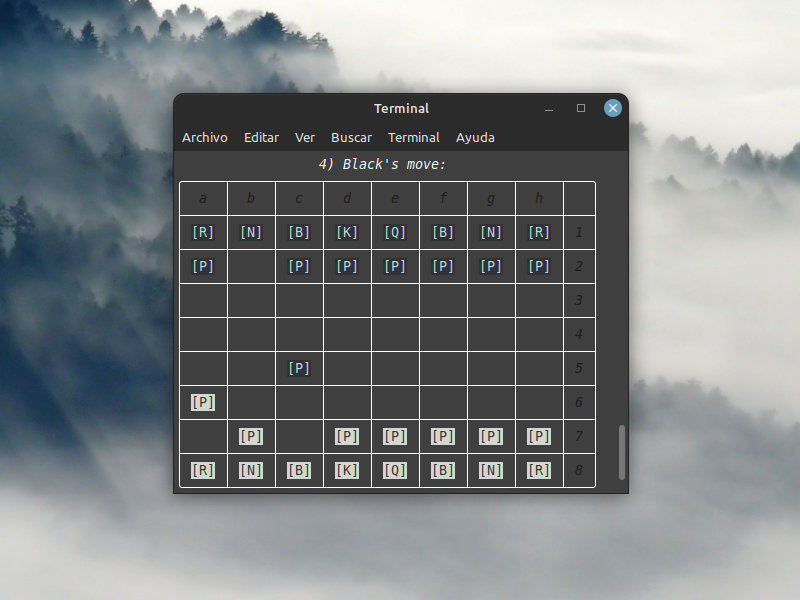
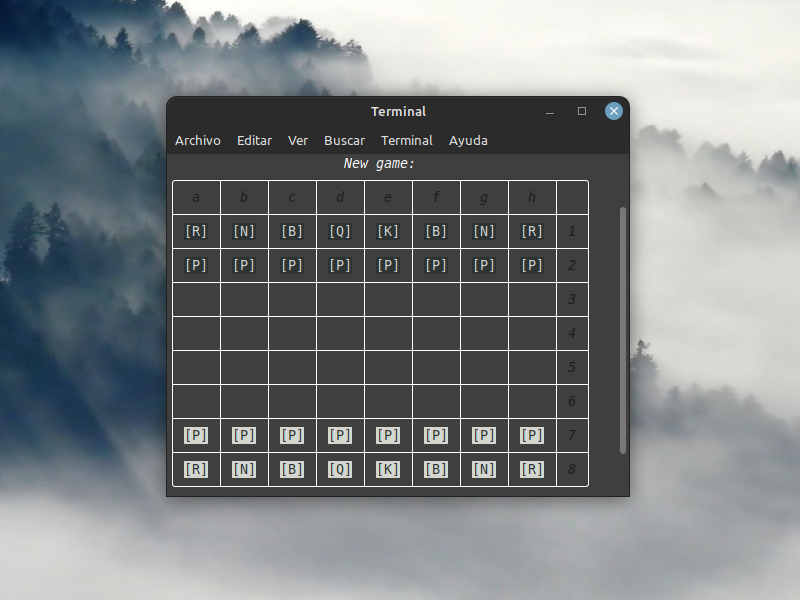
Replacing screeshot.

diff --git a/README.md b/README.md
@@ -1,5 +1,5 @@
 # Chess On Terminal
-**[Work in progress]**
+**✨ Work in progress ✨**
 
 ## A simple game of chess to play on terminal console.
 ![Image](./images/screenshot.png)
